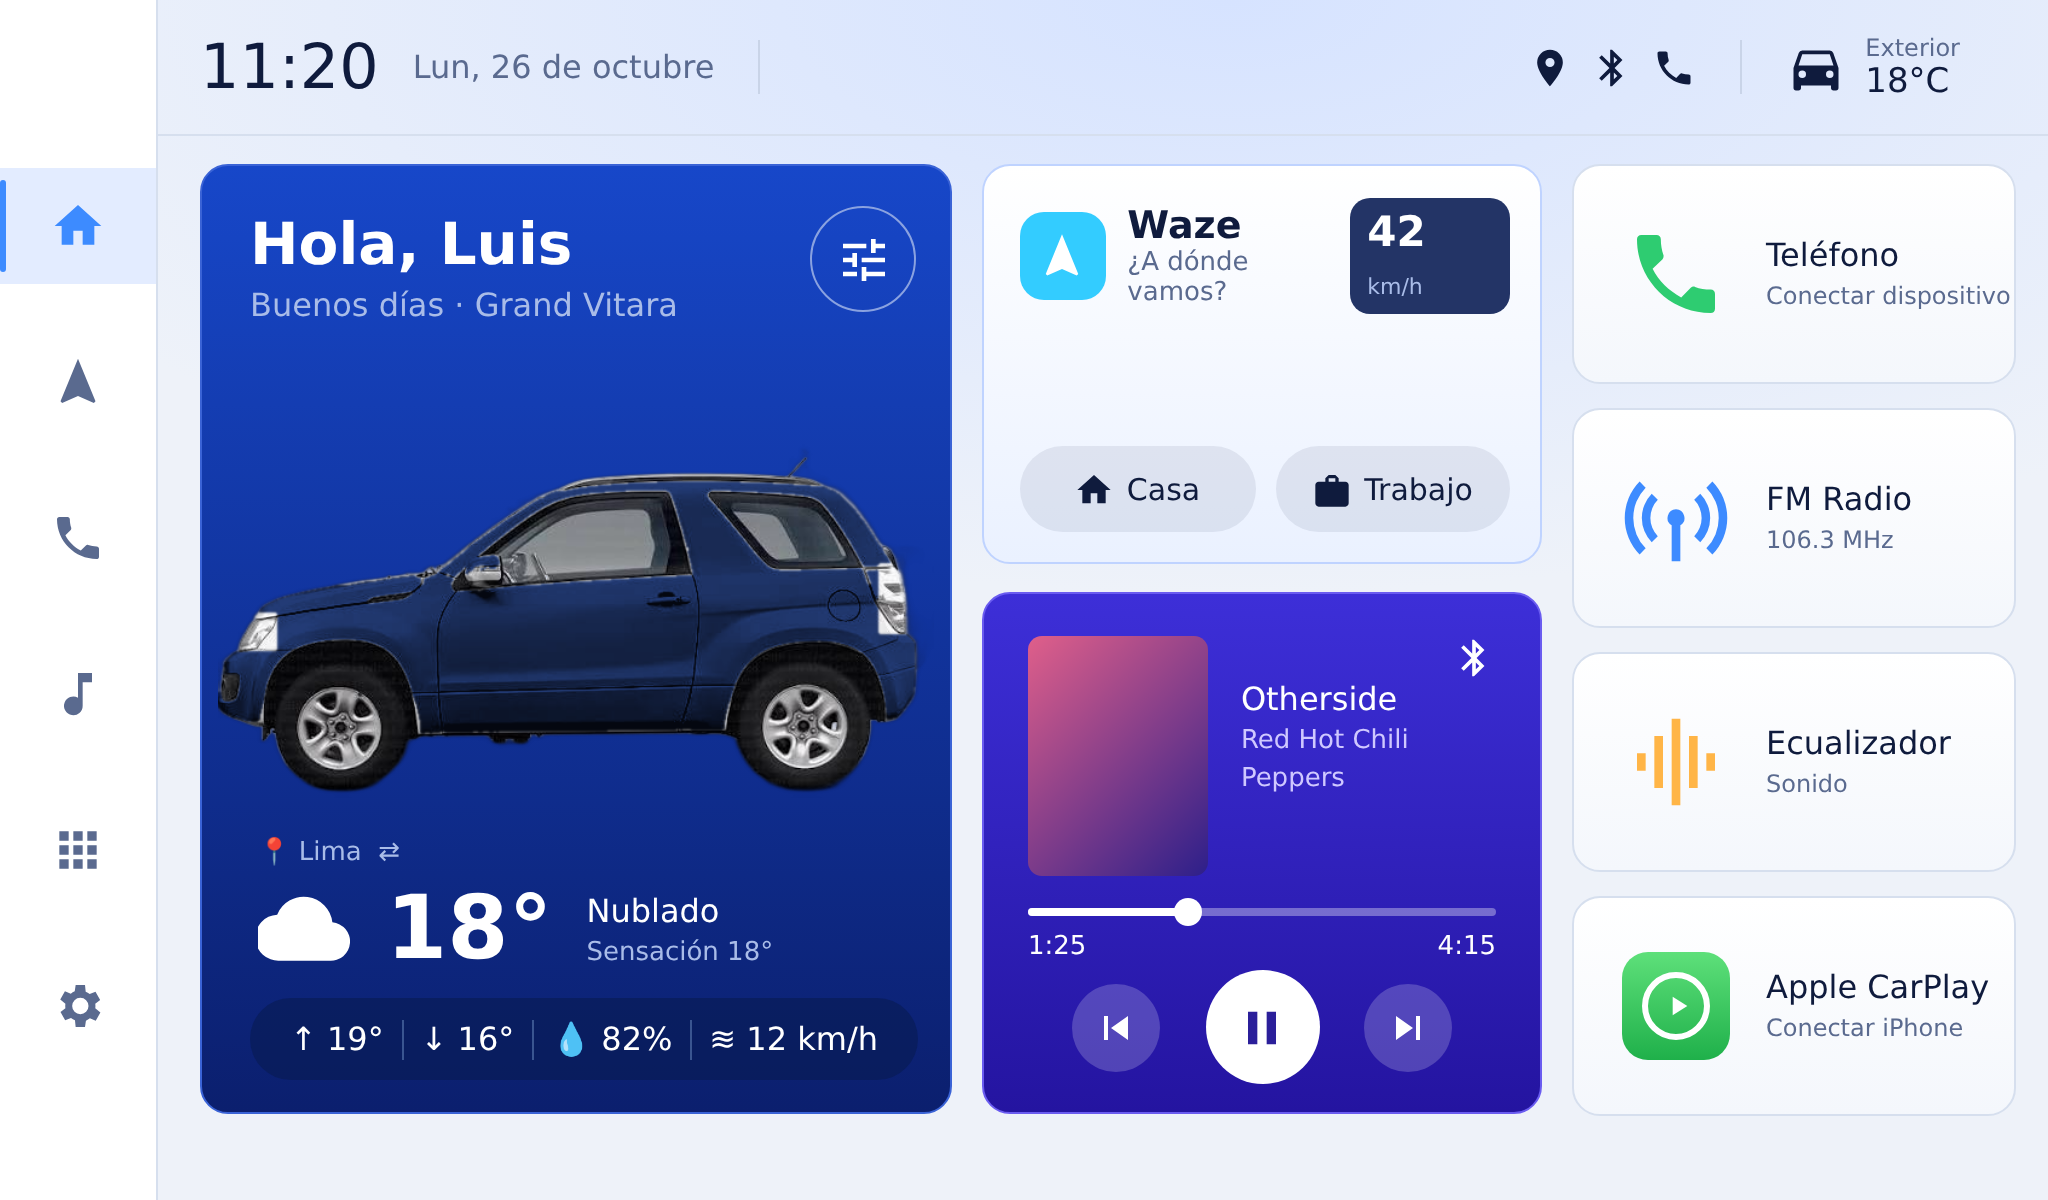
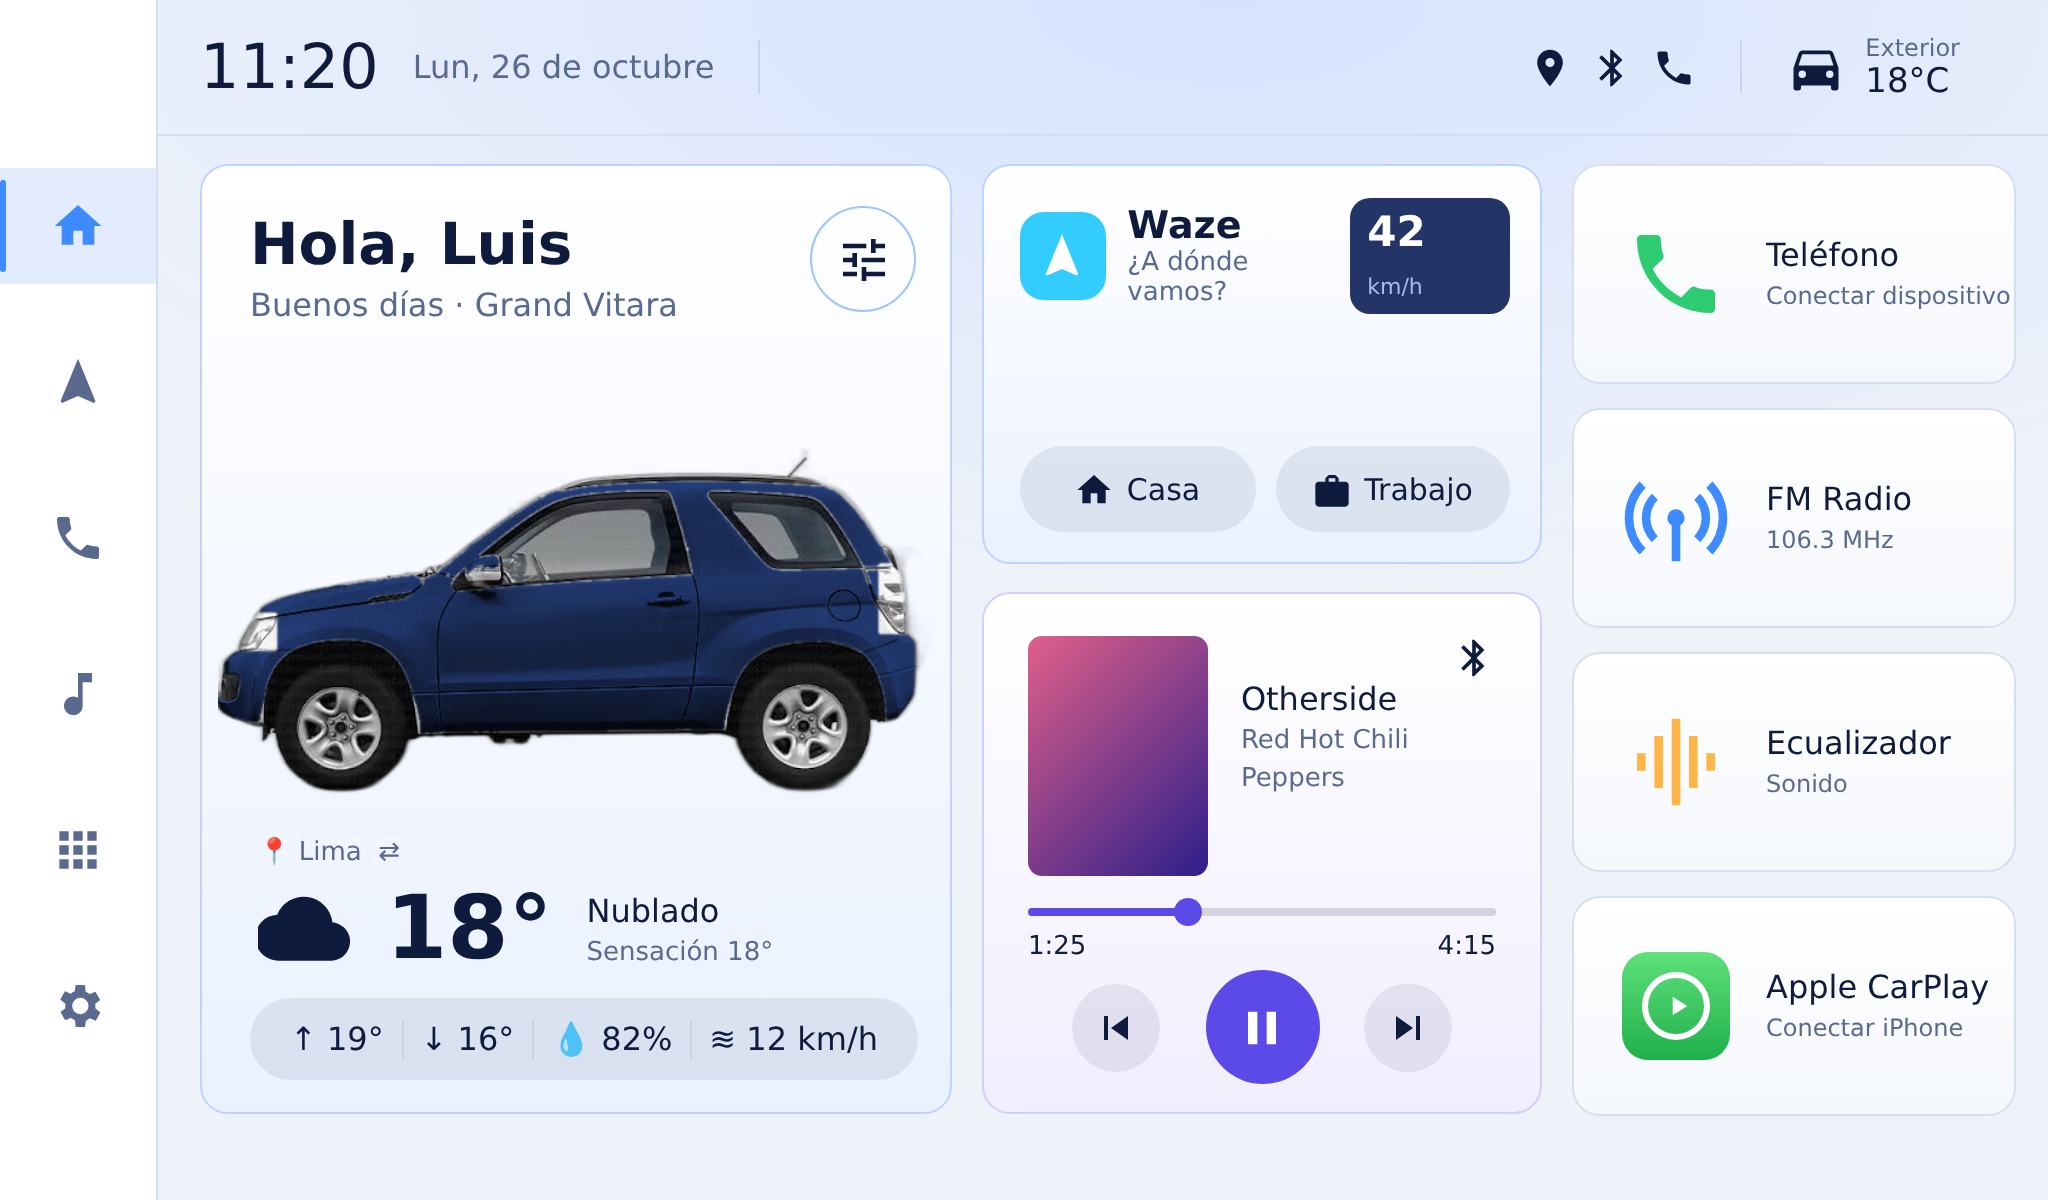
Modo claro: todas las tarjetas blancas

diff --git a/launcher/app/src/main/java/com/luis/gvlauncher/ui/HomeScreen.kt b/launcher/app/src/main/java/com/luis/gvlauncher/ui/HomeScreen.kt
@@ -273,7 +273,7 @@ private fun HeroCard(now: Date, state: HomeState, actions: HomeActions, modifier
         in 12..18 -> "Buenas tardes"
         else -> "Buenas noches"
     }
-    GlassCard(Palette.HeroTop, Palette.HeroBottom, Palette.HeroBorder, modifier) { OnColor {
+    GlassCard(Palette.HeroTop, Palette.HeroBottom, Palette.HeroBorder, modifier) { CardInk {
         Column(Modifier.fillMaxSize().padding(start = 40.u, end = 28.u, top = 36.u, bottom = 24.u)) {
             Row(verticalAlignment = Alignment.Top) {
                 Column(Modifier.weight(1f)) {
@@ -283,7 +283,7 @@ private fun HeroCard(now: Date, state: HomeState, actions: HomeActions, modifier
                 }
                 // Toca el ícono del auto para abrir Personalizar (nombre, modelo y color).
                 Box(Modifier.clip(CircleShape).clickable(onClick = actions.openCustomize)) {
-                    CircleOutline(88.u, Color(0x88B8CCFF)) {
+                    CircleOutline(88.u, if (Palette.light) Palette.Accent.copy(alpha = 0.5f) else Color(0x88B8CCFF)) {
                         Icon(Icons.Rounded.Tune, "Personalizar", tint = LocalInk.current.primary, modifier = Modifier.size(44.u))
                     }
                 }
@@ -355,7 +355,7 @@ private fun WeatherStats(weather: Weather?) {
             .fillMaxWidth()
             .height(68.u)
             .clip(RoundedCornerShape(34.u))
-            .background(Color(0x66081A52))
+            .background(if (Palette.light) Palette.ChipBg else Color(0x66081A52))
             .padding(horizontal = 32.u),
         verticalAlignment = Alignment.CenterVertically,
         horizontalArrangement = Arrangement.SpaceBetween,
@@ -496,7 +496,7 @@ private fun MediaCard(np: NowPlaying?, actions: HomeActions, modifier: Modifier)
     GlassCard(
         Palette.MediaTop, Palette.MediaBottom, Palette.MediaBorder, modifier,
         onClick = actions.openMusic,
-    ) { OnColor {
+    ) { CardInk {
         Column(Modifier.fillMaxSize().padding(start = 36.u, end = 36.u, top = 34.u, bottom = 18.u)) {
             Row(Modifier.weight(1f)) {
                 Box(
@@ -518,7 +518,7 @@ private fun MediaCard(np: NowPlaying?, actions: HomeActions, modifier: Modifier)
                 Column(Modifier.weight(1f).padding(top = 40.u)) {
                     Label(np?.title?.ifBlank { null } ?: "Sin música", 26)
                     Spacer(Modifier.height(8.u))
-                    Label(np?.artist?.ifBlank { null } ?: "Toca para abrir", 21, color = Color(0xFFCFC8FF))
+                    Label(np?.artist?.ifBlank { null } ?: "Toca para abrir", 21, color = LocalInk.current.secondary)
                 }
                 if (np != null) {
                     // Bluetooth glyph only when the phone streams over A2DP; app sources get a note.
@@ -537,12 +537,12 @@ private fun MediaCard(np: NowPlaying?, actions: HomeActions, modifier: Modifier)
                 horizontalArrangement = Arrangement.SpaceEvenly,
                 verticalAlignment = Alignment.CenterVertically,
             ) {
-                RoundButton(Icons.Rounded.SkipPrevious, 72, Color(0x33FFFFFF), Color.White, actions.previous)
+                RoundButton(Icons.Rounded.SkipPrevious, 72, Palette.ChipBg, LocalInk.current.primary, actions.previous)
                 RoundButton(
                     if (np?.playing == true) Icons.Rounded.Pause else Icons.Rounded.PlayArrow,
-                    92, Color.White, Color(0xFF2B1F9A), actions.playPause,
+                    92, Palette.MediaAccent, Palette.OnMediaAccent, actions.playPause,
                 )
-                RoundButton(Icons.Rounded.SkipNext, 72, Color(0x33FFFFFF), Color.White, actions.next)
+                RoundButton(Icons.Rounded.SkipNext, 72, Palette.ChipBg, LocalInk.current.primary, actions.next)
             }
         }
     } }
@@ -554,11 +554,11 @@ private fun Progress(np: NowPlaying?, @Suppress("UNUSED_PARAMETER") tick: Long) 
     val dur = np?.durationMs ?: 0L
     val fraction = if (dur > 0) (pos.toFloat() / dur).coerceIn(0f, 1f) else 0f
     Box(Modifier.fillMaxWidth().height(22.u), contentAlignment = Alignment.CenterStart) {
-        Box(Modifier.fillMaxWidth().height(6.u).clip(RoundedCornerShape(3.u)).background(Color(0x55FFFFFF)))
-        Box(Modifier.fillMaxWidth(fraction).height(6.u).clip(RoundedCornerShape(3.u)).background(Color.White))
+        Box(Modifier.fillMaxWidth().height(6.u).clip(RoundedCornerShape(3.u)).background(LocalInk.current.primary.copy(alpha = 0.25f)))
+        Box(Modifier.fillMaxWidth(fraction).height(6.u).clip(RoundedCornerShape(3.u)).background(Palette.MediaAccent))
         Row(Modifier.fillMaxWidth()) {
             Spacer(Modifier.fillMaxWidth(fraction))
-            Box(Modifier.offset(x = (-11).u).size(22.u).clip(CircleShape).background(Color.White))
+            Box(Modifier.offset(x = (-11).u).size(22.u).clip(CircleShape).background(Palette.MediaAccent))
         }
     }
     Row(Modifier.fillMaxWidth().padding(top = 6.u)) {

diff --git a/launcher/app/src/main/java/com/luis/gvlauncher/ui/Theme.kt b/launcher/app/src/main/java/com/luis/gvlauncher/ui/Theme.kt
@@ -15,8 +15,8 @@ import androidx.compose.ui.unit.TextUnit
 import androidx.compose.ui.unit.dp
 
 /**
- * Colores del launcher. Las superficies (fondo, barra lateral, tarjetas neutras, textos) cambian
- * entre modo oscuro y claro; las tarjetas de color (auto y música) son iguales en ambos modos.
+ * Colores del launcher. En modo oscuro las tarjetas del auto y de música son de color (texto blanco);
+ * en modo claro todo es blanco con texto oscuro.
  * [light] es un estado de Compose: al cambiarlo, toda la pantalla se vuelve a pintar sola.
  */
 object Palette {
@@ -38,14 +38,18 @@ object Palette {
     val WazeBlue = Color(0xFF33CCFF)
     val EqAmber = Color(0xFFFFB547)
 
-    // Tarjetas de color: iguales en ambos modos.
-    val HeroTop = Color(0xFF123A9E)
-    val HeroBottom = Color(0xFF0A1F5E)
-    val HeroBorder = Color(0xFF2C57C2)
+    // Tarjetas principales: de color en modo oscuro, blancas en modo claro.
+    val HeroTop get() = pick(0xFF123A9E, 0xFFFFFFFF)
+    val HeroBottom get() = pick(0xFF0A1F5E, 0xFFEAF1FF)
+    val HeroBorder get() = pick(0xFF2C57C2, 0xFFBFD3FF)
 
-    val MediaTop = Color(0xFF2B1F9A)
-    val MediaBottom = Color(0xFF3A2BC4)
-    val MediaBorder = Color(0xFF5B49E8)
+    val MediaTop get() = pick(0xFF2B1F9A, 0xFFFFFFFF)
+    val MediaBottom get() = pick(0xFF3A2BC4, 0xFFF1EEFF)
+    val MediaBorder get() = pick(0xFF5B49E8, 0xFFD5CCFF)
+    /** Acento de la tarjeta de música (botón play, barra de progreso). */
+    val MediaAccent get() = pick(0xFFFFFFFF, 0xFF5B49E8)
+    /** Ícono/texto sobre [MediaAccent]. */
+    val OnMediaAccent get() = pick(0xFF2B1F9A, 0xFFFFFFFF)
 
     // Tarjetas neutras: cambian con el modo.
     val NavTop get() = pick(0xFF0C2160, 0xFFFFFFFF)
@@ -70,7 +74,12 @@ data class Ink(val primary: Color, val secondary: Color) {
 
 val LocalInk = compositionLocalOf { Ink.OnColor }
 
-/** Envuelve contenido que va sobre un fondo de color (siempre texto blanco). */
+/** Contenido de las tarjetas del auto y de música: blanco en modo oscuro, oscuro en modo claro. */
+@Composable
+fun CardInk(content: @Composable () -> Unit) =
+    CompositionLocalProvider(LocalInk provides if (Palette.light) Ink.surface() else Ink.OnColor, content = content)
+
+/** Envuelve contenido que va sobre un fondo de color fijo (siempre texto blanco). */
 @Composable
 fun OnColor(content: @Composable () -> Unit) =
     CompositionLocalProvider(LocalInk provides Ink.OnColor, content = content)

diff --git a/launcher/app/src/main/java/com/luis/gvlauncher/ui/CustomizeScreen.kt b/launcher/app/src/main/java/com/luis/gvlauncher/ui/CustomizeScreen.kt
@@ -79,7 +79,7 @@ fun CustomizeScreen(
             GlassCard(
                 Palette.HeroTop, Palette.HeroBottom, Palette.HeroBorder,
                 Modifier.weight(1f).fillMaxHeight(),
-            ) { OnColor {
+            ) { CardInk {
                 Column(Modifier.fillMaxSize().padding(36.u)) {
                     Label("Hola, ${profile.driverName.ifBlank { Config.DRIVER_NAME }}", 48, weight = FontWeight.SemiBold)
                     Label(Config.CAR_NAME, 26, color = LocalInk.current.secondary)
